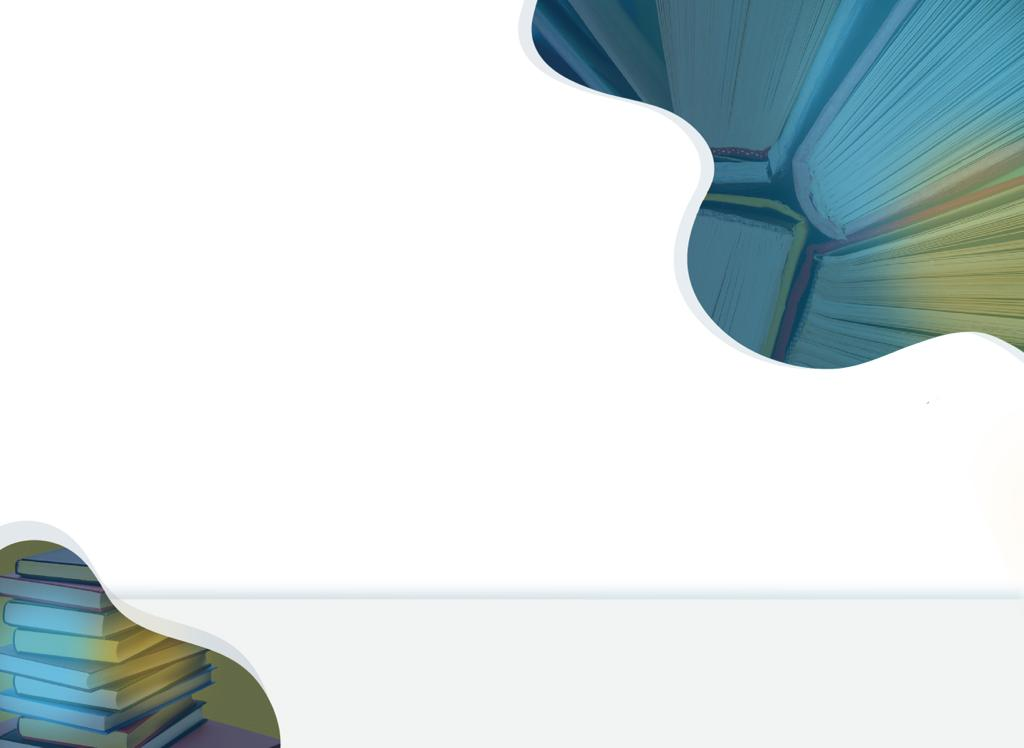
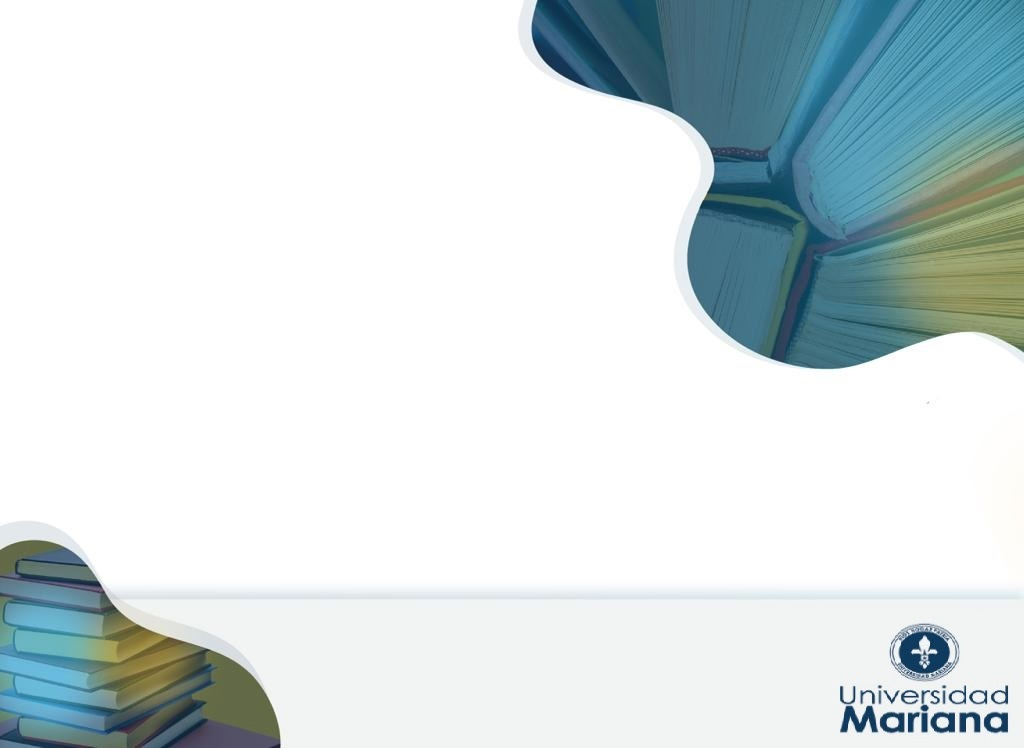
cambios home

Changed region(s): [[0.8125, 0.8302, 1.0, 0.984]]

diff --git a/DjangoUniApp/Templates/DjangoUniApp/home.html b/DjangoUniApp/Templates/DjangoUniApp/home.html
@@ -56,9 +56,9 @@
   </div>
     <!-- Footer -->
     <footer class="text-center text-white">
-      <div class="container p-4 pb-0">
+      <div class="container1 p-4 pb-0">
   
-        <section class="mb-4 container1">
+        <section class="mb-4 container2">
           <a class="btn btn-outline-light btn-floating m-1 enlaces" href="https://es-la.facebook.com/UniversidadMariana.Pasto/" target="blank" role="button">
               <img class="imgfooter" src="{% static 'DjangoUniApp/img/logos/facebook.png'%}" alt="">
           </a>
@@ -73,10 +73,6 @@
           </a>
           <a class="boton2 transparente btn" href="https://www.umariana.edu.co/direccion-investigaciones/" target="blank" ><h2>@unimareditorial</h2>
           </a>
-          <a class="btn mariana" target="blank" role="button">
-            <img class="imgfooter" src="{% static 'DjangoUniApp/img/logos/logomariana.png'%}" alt="">
-        </a>
-
         </section>
       </div>
     </footer>

diff --git a/DjangoUniApp/static/DjangoUniApp/css/gestion.css b/DjangoUniApp/static/DjangoUniApp/css/gestion.css
@@ -139,13 +139,14 @@ div .boton:hover{
 }
 
 footer{
-  margin-top: 0px;
-  margin-bottom: 0;
-  padding: 2% 0 0 25%;
-  position: absolute; 
+  height: 17%;
+  margin-top: 14px;
+  margin-bottom: 5px;
+  padding: 0% 3% 0% 27%;
+  position: absolute;
   width: 100%;
   bottom: 0;
-  border-radius:30px;
+  border-radius: 30px;
 }
 
 .imgfooter{
@@ -198,6 +199,12 @@ footer .mariana{
   padding-right: 0%;
   max-width: 100%;
   margin-top: 12%;
+}
+
+.container2{
+  padding-right: 0%;
+    max-width: 100%;
+    margin-top: -14%;
 }
 
 .blanco{

diff --git a/DjangoUniApp/views.py b/DjangoUniApp/views.py
@@ -4,6 +4,6 @@ from django.template import Template, Context
 
 def index (request):
    
-    return render(request, 'DjangoUniApp/resultados.html')
+    return render(request, 'DjangoUniApp/home.html')
 
     
